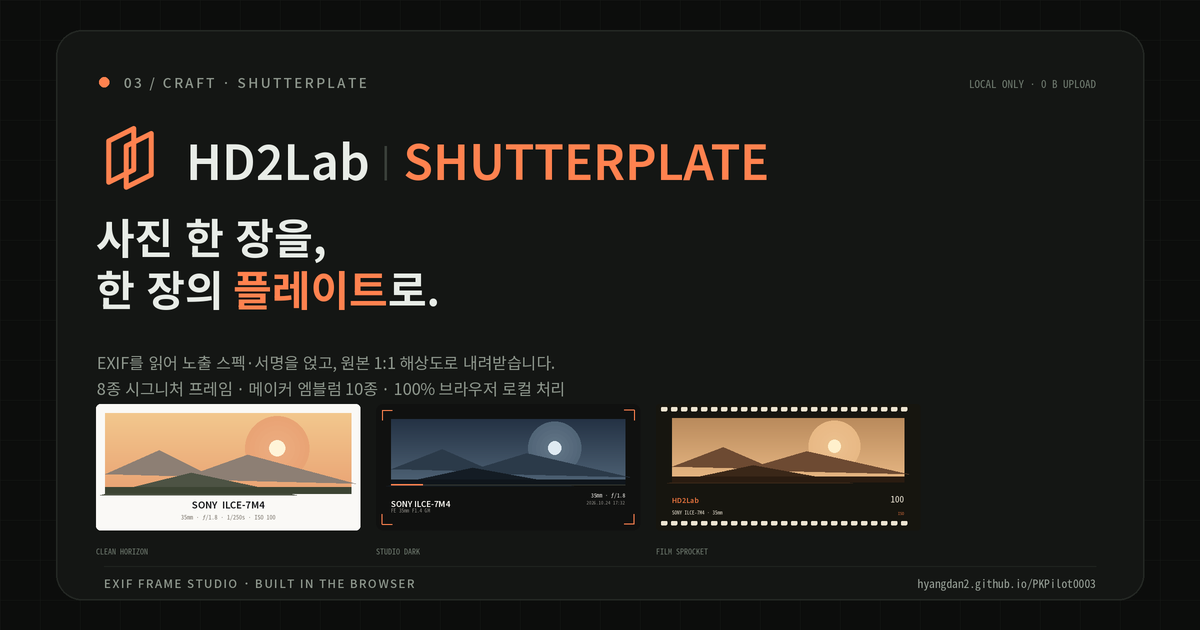
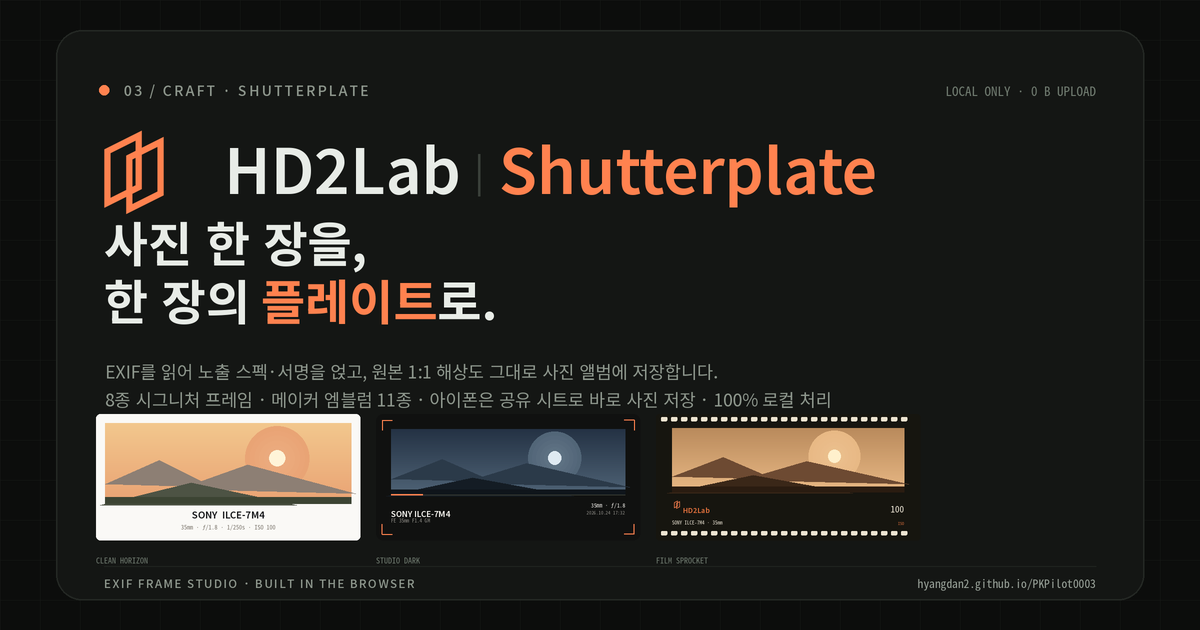
docs(pkpilot0003): 라이브 배포본 실측 캡처 — 공식 엠블럼 11종 1:1 · Leica 컷아웃 · OG 해시 일치 (#22)

diff --git a/verify/README.md b/verify/README.md
@@ -21,6 +21,17 @@
 iOS 공유 시트 자체는 실기기에서만 확인할 수 있어, 이 배포에서는 `navigator.canShare` 분기와
 폴백·취소 처리를 코드와 스텁 주입 테스트로 검증했습니다(자동화 테스트 목록 참고).
 
+### 라이브 배포 확인 (c0fa20a · 1cb634d)
+
+`https://hyangdan2.github.io/PKPilot0003/` 를 직접 열어 받은 실측본입니다(콘솔 에러 0건).
+
+| 파일 | 내용 |
+| --- | --- |
+| `live-emblem-<브랜드>-gallery.jpg` | 라이브 페이지에서 `SPApp.prepareExport()`로 받은 11종 1:1 출력물 (1752×1414) |
+| `live-ui-emblem-picker-mobile.png` | 라이브 엠블럼 시트 — Leica 원판에 필기체가 뚫려 렌더됨 |
+| `live-ui-export-card-mobile.png` | 라이브 결과 카드 — 파일명·용량·포맷과 큰 미리보기 |
+| `live-og-image.png` | `og-image.png?v=20261114-2` 실물 (저장소 파일과 SHA-256 일치) |
+
 ## 8종 프레임 글자 잘림·겹침 수정 검증 (배포 754ee67)
 
 `live-fit-` 접두사 파일은 **배포본 페이지의 `SPPlate.paint()`를 1:1 해상도로 직접 호출**해 받은
